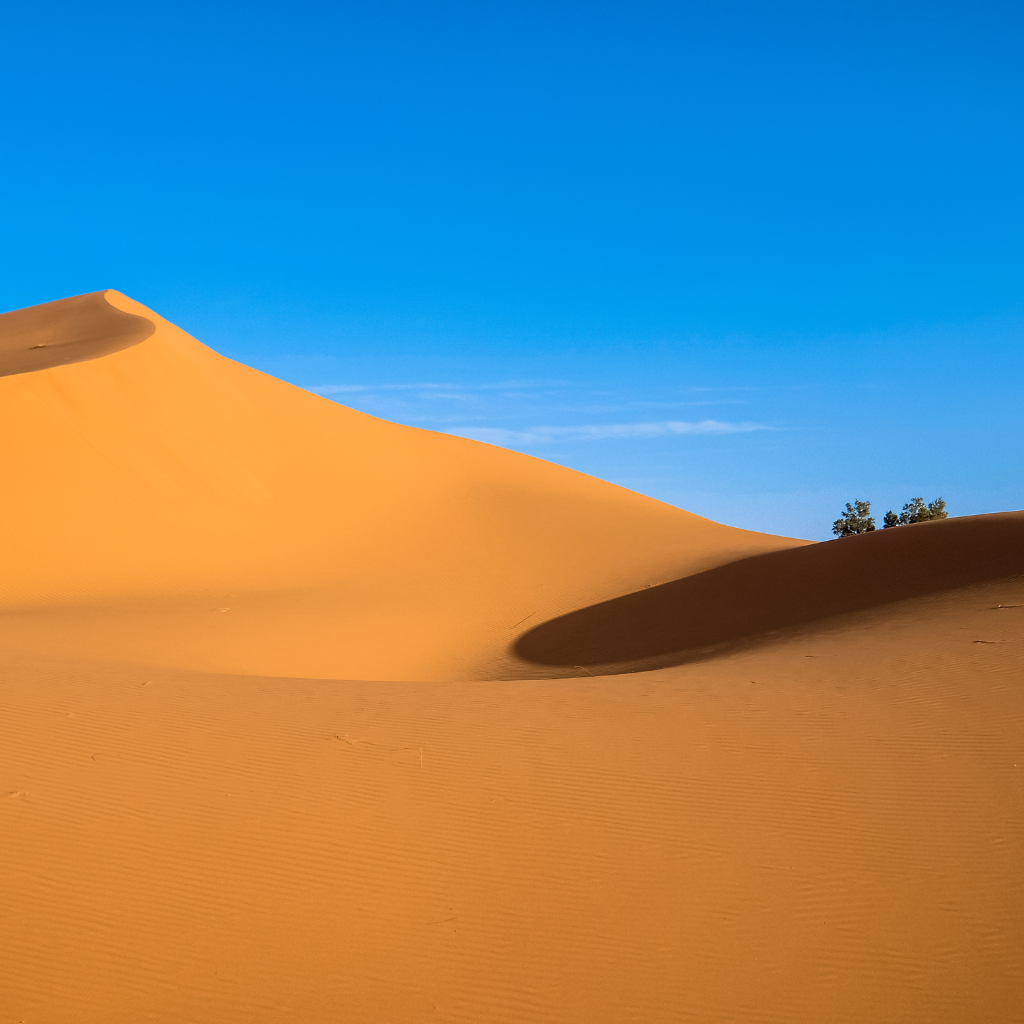
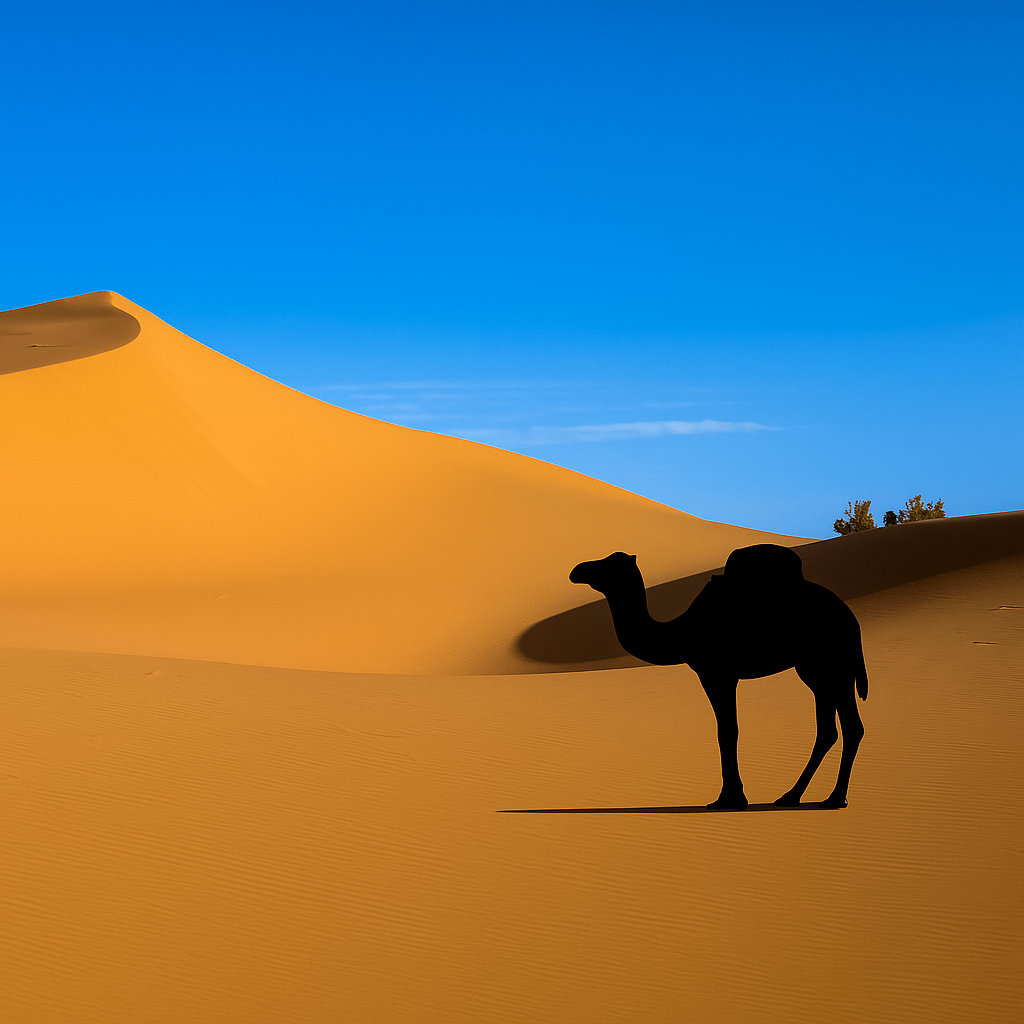
20 upd

Changed region(s): [[0.0, 0.2812, 1.0, 1.0], [0.0625, 0.6562, 0.125, 0.7188]]

diff --git a/escape20.html b/escape20.html
@@ -2865,7 +2865,7 @@
                                 `<img src="${IMAGES.modals.keyOpen}" style="width:400px;max-width:100%;display:block;margin:0 auto 20px;">`,
                                 [{ text: '閉じる', action: 'close' }]
                             );
-                            updateMessage('白い鍵でドアを開けた');
+                            updateMessage('白い鍵でドアを開けた。外気が流れ込んだ。どうやらラクダが近くにいるようだ');
 
 
                         } else if (gameState.main.flags.unlockEntranceDoor) {

diff --git a/escape20_hint.html b/escape20_hint.html
@@ -123,7 +123,8 @@
     <section class="panel">
       <h3>ヒント</h3>
       <ul class="list">
-        <li>形がテーマです</li>
+        <li>まず、レバーを見つけて差し込みましょう</li>
+        <li>地下ではゲーム画面下部のボタンでの移動ができない仕様としています</li>
       </ul>
     </section>
 
